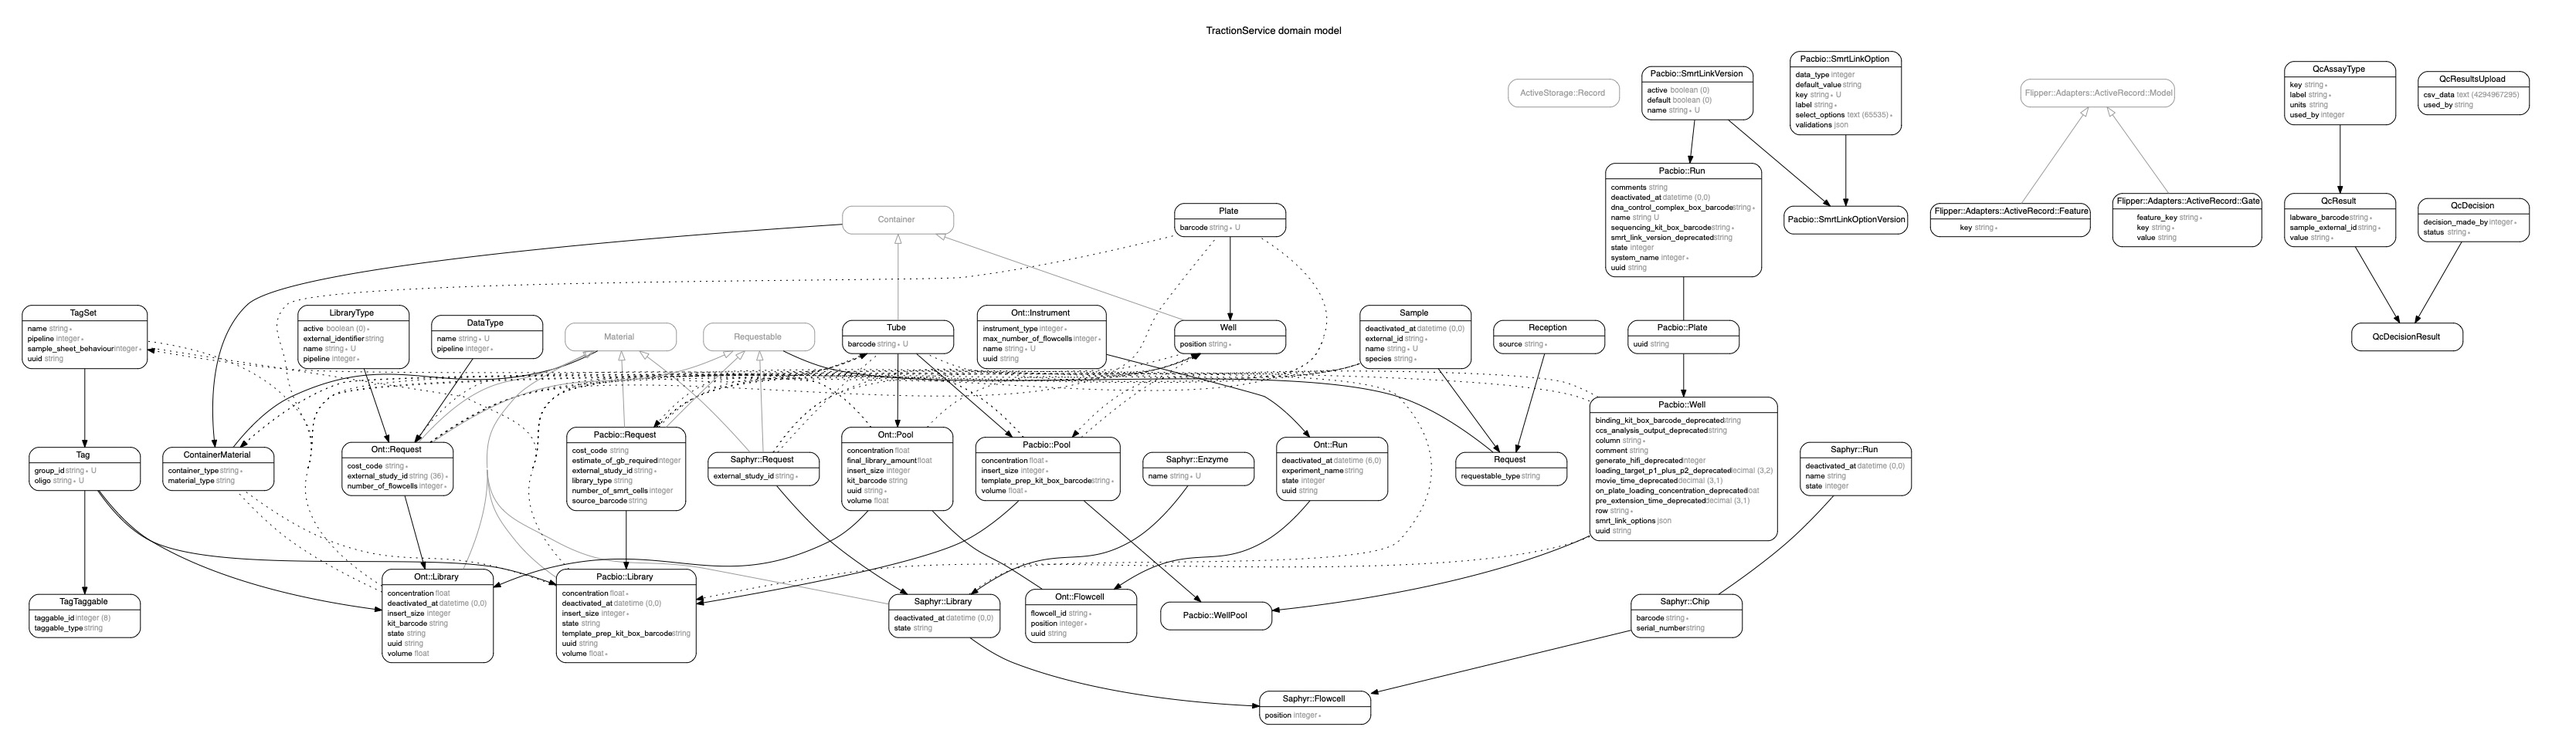
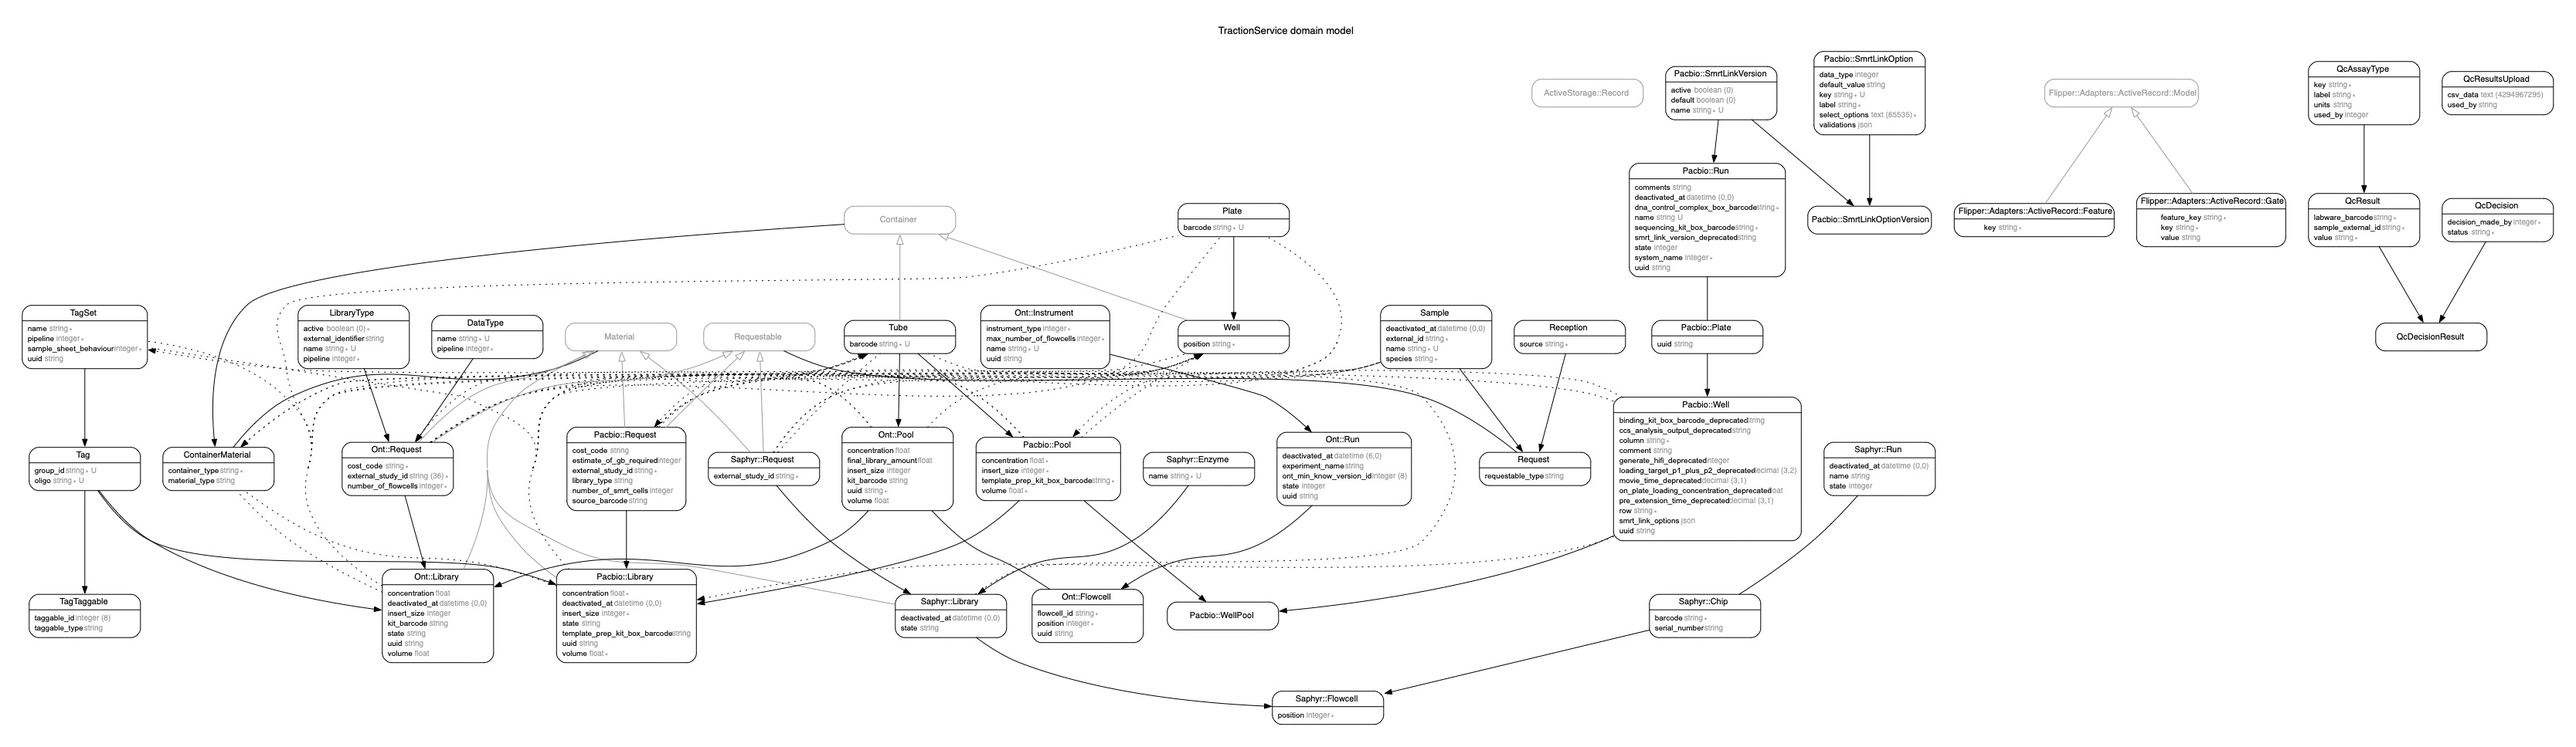
Added MinKnow versioning

diff --git a/db/schema.rb b/db/schema.rb
@@ -10,7 +10,7 @@
 #
 # It's strongly recommended that you check this file into your version control system.
 
-ActiveRecord::Schema[7.0].define(version: 2023_01_09_154242) do
+ActiveRecord::Schema[7.0].define(version: 2023_02_01_154348) do
   create_table "container_materials", charset: "utf8mb3", force: :cascade do |t|
     t.string "container_type", null: false
     t.bigint "container_id", null: false
@@ -77,6 +77,7 @@ ActiveRecord::Schema[7.0].define(version: 2023_01_09_154242) do
     t.datetime "created_at", null: false
     t.datetime "updated_at", null: false
     t.index ["ont_pool_id"], name: "index_ont_flowcells_on_ont_pool_id"
+    t.index ["ont_run_id", "flowcell_id"], name: "index_ont_flowcells_on_ont_run_id_and_flowcell_id", unique: true
     t.index ["ont_run_id", "position"], name: "index_ont_flowcells_on_ont_run_id_and_position", unique: true
     t.index ["ont_run_id"], name: "index_ont_flowcells_on_ont_run_id"
   end
@@ -107,6 +108,15 @@ ActiveRecord::Schema[7.0].define(version: 2023_01_09_154242) do
     t.index ["ont_pool_id"], name: "index_ont_libraries_on_ont_pool_id"
     t.index ["ont_request_id"], name: "index_ont_libraries_on_ont_request_id"
     t.index ["tag_id"], name: "index_ont_libraries_on_tag_id"
+  end
+
+  create_table "ont_min_know_versions", charset: "utf8mb3", force: :cascade do |t|
+    t.string "name", null: false
+    t.boolean "default", default: false
+    t.boolean "active", default: true
+    t.datetime "created_at", null: false
+    t.datetime "updated_at", null: false
+    t.index ["name"], name: "index_ont_min_know_versions_on_name", unique: true
   end
 
   create_table "ont_pools", charset: "utf8mb3", force: :cascade do |t|
@@ -142,7 +152,9 @@ ActiveRecord::Schema[7.0].define(version: 2023_01_09_154242) do
     t.string "uuid"
     t.datetime "created_at", null: false
     t.datetime "updated_at", null: false
+    t.bigint "ont_min_know_version_id"
     t.index ["ont_instrument_id"], name: "index_ont_runs_on_ont_instrument_id"
+    t.index ["ont_min_know_version_id"], name: "index_ont_runs_on_ont_min_know_version_id"
   end
 
   create_table "pacbio_libraries", charset: "utf8mb3", force: :cascade do |t|
@@ -465,6 +477,7 @@ ActiveRecord::Schema[7.0].define(version: 2023_01_09_154242) do
   add_foreign_key "ont_requests", "data_types"
   add_foreign_key "ont_requests", "library_types"
   add_foreign_key "ont_runs", "ont_instruments"
+  add_foreign_key "ont_runs", "ont_min_know_versions"
   add_foreign_key "pacbio_libraries", "pacbio_pools"
   add_foreign_key "pacbio_libraries", "pacbio_requests"
   add_foreign_key "pacbio_pools", "tubes"

diff --git a/app/csv_generator/ont_sample_sheet.rb b/app/csv_generator/ont_sample_sheet.rb
@@ -36,8 +36,7 @@ class OntSampleSheet
     end
   end
 
-  # Use configuration :type and :value to retrieve well data
-  # eg ["Sequel II", "run4"]
+  # Use configuration :type and :value to retrieve flowcell data
   def csv_data(options = {})
     configuration.columns.map do |column|
       populate_column(options.merge(column_options: column[1]))
@@ -50,33 +49,32 @@ class OntSampleSheet
   # pertaining to the row type
   # otherwise just populate with the populate with value.
   # some columns need populating for both types with the same method (polymorphism).
-  # well position is different. It would be really difficult to get that from sample.
-  # populate[:for] is either sample or well
-  # populate[:with] is either row_type (sample or well), sample or well
+  # populate[:for] is either sample or flowcell
+  # populate[:with] is either row_type (sample or flowcell), sample or flowcell
   # Examples:
   # +Is Collection:
   # type: :model
   # value: collection?
   # populate:
   #   for:
-  #     - :well
+  #     - :flowcell
   #     - :sample
   #   with: :row_type+
-  # means that is collection needs to be populated for samples and wells
-  # but needs to use the method from sample or well as the answers are different
-  # +Sample Well:
+  # means that is collection needs to be populated for samples and flowcells
+  # but needs to use the method from sample or flowcell as the answers are different
+  # +Sample flowcell:
   # type: :model
   # value: position_leading_zero
   # populate:
   #   for:
-  #     - :well
+  #     - :flowcell
   #     - :sample
-  #   with: :well+
-  # means that sample well needs to be populated for both samples and wells
-  # but needs to use the well method
+  #   with: :flowcell+
+  # means that sample flowcell needs to be populated for both samples and flowcells
+  # but needs to use the flowcell method
   # hopefully that is enough of an explanation!
   # @param [hash] options can include:
-  #  - well: the well data that is being added to the row
+  #  - flowcell: the flowcell data that is being added to the row
   #  - sample: the sample data that is being added to the row
   #  - column_options: from configuration
   def populate_column(options = { flowcell: nil, sample: nil, column_options: nil })

diff --git a/app/models/ont/run.rb b/app/models/ont/run.rb
@@ -17,6 +17,15 @@ module Ont
                foreign_key: :ont_instrument_id,
                inverse_of: false
 
+    # This association creates the link to the MinKnowVersion. Run belongs
+    # to a MinKnowVersion. We set the default MinKnowVersion for the run
+    # using the class method 'default'.
+    belongs_to :min_know_version,
+               class_name: 'Ont::MinKnowVersion',
+               foreign_key: :ont_min_know_version_id,
+               inverse_of: :runs,
+               default: -> { MinKnowVersion.default }
+
     has_many :flowcells, foreign_key: :ont_run_id, inverse_of: :run, dependent: :destroy
 
     accepts_nested_attributes_for :flowcells, allow_destroy: true
@@ -96,7 +105,7 @@ module Ont
     private
 
     def ont_run_sample_sheet_config
-      Pipelines.ont.sample_sheet.by_version('v1')
+      Pipelines.ont.sample_sheet.by_version(min_know_version.name)
     end
 
     def update_flowcell(attributes)

diff --git a/app/models/ont/min_know_version.rb b/app/models/ont/min_know_version.rb
@@ -1,0 +1,19 @@
+# frozen_string_literal: true
+
+module Ont
+  # Ont::MinKnowVersion
+  class MinKnowVersion < ApplicationRecord
+    validates :name, presence: true, uniqueness: true, format: Version::FORMAT
+
+    # This is the other side of the belongs_to association in ont runs.
+    has_many :runs, class_name: 'Ont::Run', dependent: :destroy, inverse_of: :min_know_version
+
+    scope :active, -> { where(active: true) }
+    scope :ordered_by_default, -> { order(default: :desc) }
+
+    # Returns the default SMRT Link version.
+    def self.default
+      find_by(default: true, active: true)
+    end
+  end
+end

diff --git a/db/migrate/20230201154348_create_ont_min_know_versions.rb b/db/migrate/20230201154348_create_ont_min_know_versions.rb
@@ -1,0 +1,13 @@
+class CreateOntMinKnowVersions < ActiveRecord::Migration[7.0]
+  def change
+    create_table :ont_min_know_versions do |t|
+      t.string :name, null: false, index: {unique: true}
+      t.boolean :default, default: false
+      t.boolean :active, default: true
+   
+      t.timestamps
+    end
+
+    add_reference :ont_runs, :ont_min_know_version, foreign_key: true
+  end
+end
